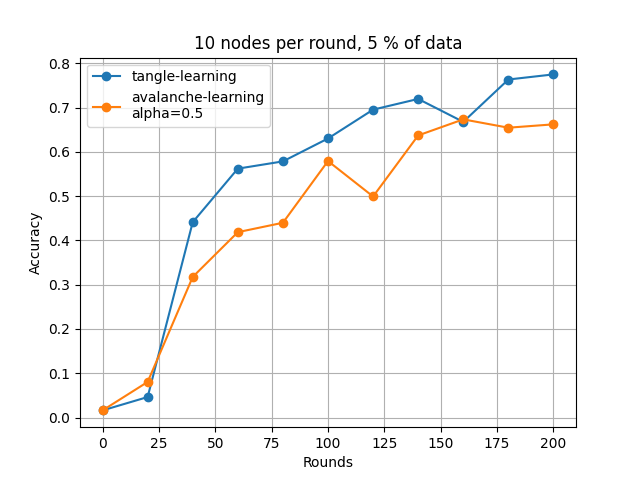
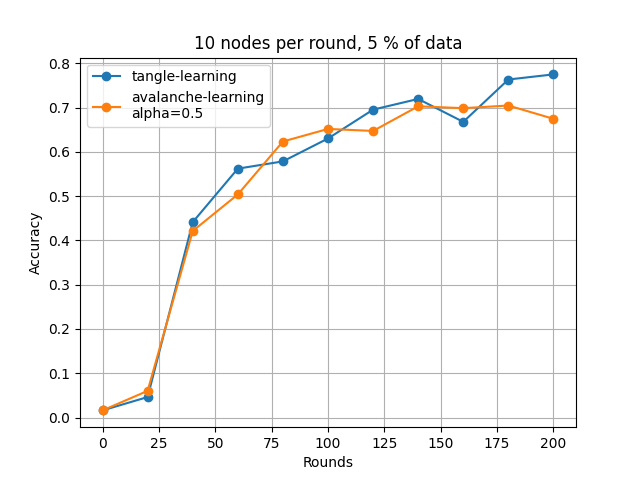
Fixed query condition in tangel.py. Now depends on the loss from the new transaction and the reference transaction evaluated on the clients data. Also added a epsilon varible to soften the constraint.

diff --git a/tangle/tangle.py b/tangle/tangle.py
@@ -16,7 +16,7 @@ class Tangle:
     def __init__(self, transactions, genesis):
         self.transactions = transactions
         self.genesis = genesis
-        self.new_transactions = {}
+        self.new_transactions = []
         if current_process().name == 'MainProcess':
             os.environ['TF_CPP_MIN_LOG_LEVEL'] = '3'
             self.process_pool = Pool(10)
@@ -46,31 +46,33 @@ class Tangle:
             sys_metrics[client_id][LOCAL_COMPUTATIONS_KEY] = client_sys_metrics[LOCAL_COMPUTATIONS_KEY]
 
             tx.tag = rnd
-            self.new_transactions[client_id] = [tx, metrics['loss']] # this is probs training loss, maybe nor what we want to compare in query?
+            self.new_transactions.append(tx)
             
         #for tx in new_transactions:
         #    self.add_transaction(tx)
 
         return sys_metrics
 
-    def run_avalanche(self, eval_fn, clients_to_test, alpha=0.5, set_to_use='test'):
+    def run_avalanche(self, eval_fn, test_fn, clients_to_test, alpha=0.5, set_to_use='test'):
         k = len(clients_to_test)
-        n_added_tx = 0
-        for u_id in self.new_transactions:
-            tx, u_loss = self.new_transactions[u_id]            
+        
+        ref_results = self.test_model(test_fn, clients_to_test, set_to_use)
+        ref_metrics = []
+        for client_id in ref_results:
+            ref_metrics.append(ref_results[client_id])
+        
+        for tx in self.new_transactions:
             eval_params = [[client.id, client.group, client.model.flops, random.randint(0, 4294967295), client.train_data, client.eval_data, self.name, set_to_use, tx.load_weights()] for client in clients_to_test]
-            results = self.process_pool.starmap(eval_fn, eval_params) 
+            tx_results = self.process_pool.starmap(eval_fn, eval_params) 
             P = 0
-            for _, c_metrics in results:
-                c_loss = c_metrics['loss']
-                if u_loss >= c_loss:
+            for (_, tx_metric), ref_metric in zip(tx_results, ref_metrics):
+                if tx_metric['loss'] <= ref_metric['loss']:
                     P += 1
             if P >= alpha * k:
-                n_added_tx += 1
                 self.add_transaction(tx)
      
-        self.new_transactions = {}
-        return n_added_tx
+        self.new_transactions = []
+        return None
 
     def test_model(self, test_fn, clients_to_test, set_to_use='test'):
         metrics = {}

diff --git a/main.py b/main.py
@@ -133,7 +133,7 @@ def main():
         sys_metrics = tangle.run_nodes(train_single, server.selected_clients, i + 1,
                                        num_epochs=args.num_epochs, batch_size=args.batch_size,
                                        malicious_clients=malicious_clients, poison_type=poison_type)
-        n_added_tx = tangle.run_avalanche(eval_model, random_sample(clients, 10), set_to_use='test')
+        _ = tangle.run_avalanche(eval_model, test_single, random_sample(clients, 10), set_to_use='test')
         # norm.append(np.array(norm_this_round).mean(axis=0).tolist() if len(norm_this_round) else [])
         sys_writer_fn(i + 1, c_ids, sys_metrics, c_groups, c_num_samples)
 
@@ -210,7 +210,6 @@ def setup_clients(dataset, model=None, use_val_set=False, poison_fraction=0, poi
 
     return clients, malicious_clients
 
-
 def get_stat_writer_function(ids, groups, num_samples, args):
 
     def writer_fn(num_round, metrics, partition):
@@ -219,7 +218,6 @@ def get_stat_writer_function(ids, groups, num_samples, args):
 
     return writer_fn
 
-
 def get_sys_writer_function(args):
 
     def writer_fn(num_round, ids, metrics, groups, num_samples):
@@ -227,7 +225,6 @@ def get_sys_writer_function(args):
             num_round, ids, metrics, groups, num_samples, 'train', 'leaf/models/metrics', '{}_{}'.format('sys', args.metrics_name))
 
     return writer_fn
-
 
 def print_stats(
     num_round, tangle, clients, num_samples, args, writer, use_val_set, print_conf_matrix):
@@ -245,7 +242,6 @@ def print_stats(
         file.write('Round %d \n' % num_round)
         file.write(str(average_test_metrics) + '\n')
     return average_test_metrics
-
 
 def print_metrics(metrics, weights, num_round, prefix='', print_conf_matrix=False):
     """Prints weighted averages of the given metrics.
@@ -284,7 +280,6 @@ def print_metrics(metrics, weights, num_round, prefix='', print_conf_matrix=Fals
             np.savetxt('conf_matrix.txt', full_conf_matrix, fmt='%4u')
 
     return average_metrics
-
 
 if __name__ == '__main__':
     main()

diff --git a/plot_results.py b/plot_results.py
@@ -7,9 +7,11 @@ import matplotlib.pyplot as plt
 # results from tangle-learning on 5% of data
 acc_tan = [0.016055766494748058, 0.046234556579690236, 0.4411611493574669, 0.5620469109281471, 0.578442872620357, 0.6301531139081142, 0.6952967752729544, 0.7194763422521793, 0.6676825291212701, 0.7633632790915185, 0.7748994312144739]
 
-# results from avalanche-learning on 5% of data
-acc_ava = [0.016055766494748058, 0.08031854822998714, 0.317475716767223, 0.41859534873645915, 0.43983036453299285, 0.5791919785353212, 0.4991466303409869, 0.6370845557322359, 0.6733411150189211, 0.6545152853962993, 0.6620970029577332]
+# results from avalanche-learning on 5% of data with wrong query condition
+# acc_ava = [0.016055766494748058, 0.08031854822998714, 0.317475716767223, 0.41859534873645915, 0.43983036453299285, 0.5791919785353212, 0.4991466303409869, 0.6370845557322359, 0.6733411150189211, 0.6545152853962993, 0.6620970029577332]
 
+# results from avalanche-learning on 5% of data
+acc_ava = [0.016055766494748058, 0.06021819481897336, 0.4211772553082698, 0.5037706196500922, 0.623347373580569, 0.6517498324262765, 0.6471981677443157, 0.7028364377798926, 0.6986657763218203, 0.704611455073206, 0.6745577931734004]
 
 rounds = [0, 20, 40, 60, 80, 100, 120, 140, 160, 180, 200]
 
